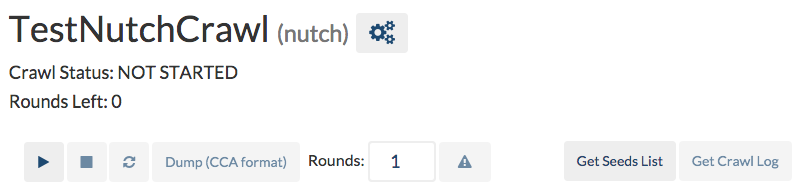
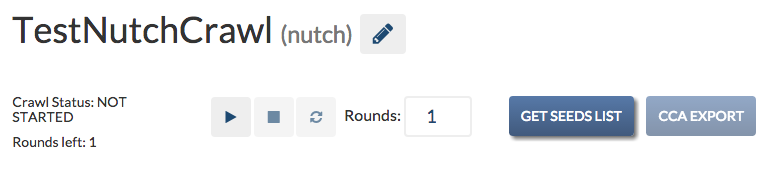
Additions to Manual Testing Guide

diff --git a/docs/source/manual_testing_guide.rst b/docs/source/manual_testing_guide.rst
@@ -13,31 +13,21 @@ Project Creation
 
     a. Click the new project button.
     b. Provide a name and a description for the project on the next page, and press submit.
-    c. Verify that you see a green banner at the top of the screen confirming that you have successfully created the project.
-
-    .. image:: _static/img/testing_guide/project_success_message.png
-
-    d. In the top right of the screen, verify that the projects dropdown is working, and that it list the name of project you just created.
-    e. On the right side of the screen, click the "list" icons to test that the dropdowns are working.
-    f. Verify that both dropdowns are empty, and that no indices or crawls have been created.
+    c. Veryify that your new project shows up on the project page list.
+    d. Click on the new project and go to the project page. Verify that there are no crawls, models, or datasets yet.
 
 Project Settings
 ================
-1. Click the "gears" icon next to the name of the project on the project overview page.
-
-    .. image:: _static/img/testing_guide/settings.png
+1. Click the "pencil" icon next to the name of the project on the project overview page.
 
     a. Supply a different name and description for the project, and hit "submit".
     b. Verify that the project was edited successfully by checking the success message at the top of the page.
 
-    .. image:: _static/img/testing_guide/project_edit_success.png
+2. Go back to the settings page.
 
-1. Go back to the settings page.
-
-    a. Click on the "trashcan" icon. Verify that there is a popup asking you whether you want to delete the project.
-    b. Click no, and verify that you get a second popup which verifies that you cancelled.
-    c. Click on the trash icon and click yes.
-    d. Verify that you are taken to the landing page, and that there are no projects listed on the landing page.
+    a. Click on the "trashcan" icon. Verify that there is a popup asking you whether you want to delete the project. 
+    b. Click on the trash icon and click yes.
+    c. Verify that you are taken to the landing page, and that there are no projects listed on the landing page. 
 
 ***************
 Testing Indices
@@ -56,11 +46,6 @@ Index Creation
 
     .. image:: _static/img/testing_guide/index_creation_success.png
 
-6. In your browser, open a new tab or window and goto http://localhost:9200/. This is the location of the elasticsearch instance.
-
-    a. Navigate to your newly created index using the following URL structure: localhost:9200/<index_name>/_search?pretty.
-    b. Verify that the newly created index reflects the number of documents in your zipfile and the content of those documents.
-
 Index Settings
 ==============
 1. Click on the link to the index on the project overview page. This will take you to the index settings page.
@@ -74,6 +59,26 @@ Index Settings
 2. Return to the index settings page and click the "trashcan" icon. As before, confirm that the cancel button works, and then delete the index. 
 
     a. Confirm that the index was deleted successfully by looking at the list of indices on the project overview page.
+
+*************
+Testing Seeds
+*************
+
+At the navbar, click on the "Seeds" tab.
+
+1. Create a Seeds List
+
+   a. Create a seeds list by providing a file.
+   b. Create another by pasting URLs into the textbox.
+   c. Paste in invalid URL into the textbox, and verify that it is highlighted red.
+
+2. Edit a seeds list
+
+   a. Click on the icon for the seeds list to access the edit seeds page.
+   b. Remove some URLs and click "Reset" to return to the original seeds list.
+   c. Make one of the URLs invalid, and press "Save"
+   d. Verify that the invalid URL is highlighted with red.
+   e. Fix or remove the URL and click "Save"
 
 **************
 Testing Crawls
@@ -90,13 +95,10 @@ Included with the repository is a test seeds file. You can use this file to test
 
     .. image:: _static/img/testing_guide/crawler_nutch.png
 
-    b. Add the seeds list from test_resources/test_crawl_data/cats.seeds , and hit "Submit"
+    b. Select one of the previously created seed lists and create the crawl.
 
-3. Verify that the crawl has been added successfully.
-
-.. image:: _static/img/testing_guide/crawl_added_success.png
-
-4. You should now be on the crawl page.
+3. Verify that the crawl has been added successfully to the crawls list table.
+4. Go to the crawl page by following the link in the crawls list table.
 
    a. Verify that the crawl status and available buttons are the same as in this image.
 
@@ -105,12 +107,8 @@ Included with the repository is a test seeds file. You can use this file to test
    b. The following buttons should be available: "Start Crawl", "Get Seeds List". All other buttons should be greyed-out.
    c. The crawl status should be set to NOT STARTED with 0 rounds left to crawl.
 
-5. Create another nutch crawl, but this time copy the contents of the cats.seeds file into the textbox. Submit the crawl.
 
-   a. On the crawl page, click the "Get Seeds List" button.
-   b. Verify that the contents of the downloaded file match the contents of cats.seeds.
-
-6. Verify that the crawl completes successfully.
+5. Start a crawl and verify that the crawl completes successfully.
 
    a. When you start the crawl, there should be two rounds left.
    b. At the end of the first round, summary statistics should list total pages crawled as between 6 and 9.
@@ -118,26 +116,6 @@ Included with the repository is a test seeds file. You can use this file to test
    d. On the start of the next round, the crawl status should change to "STARTED"
    e. At the end of the second round, the rounds left should be zero.
    f. The pages crawled should be between 300 and 400.
-   g. The crawl control dashboard should resemble this:
-
-   .. image:: _static/img/testing_guide/crawl_buttons_success.png
-
-7. Verify the crawl index
-
-   a. Refer to step 6 of :ref:`index-creation` on how to access the index from the browser.
-   b. Type in the name of the crawl index to see the crawl data. Verify that there are between 200 and 300 "hits", or documents.
-
-8. Verify that kibana is functioning.
-
-   a. Click on the Kibana tab.
-   b. Enter the following information on the "Settings" page.
-
-    .. image:: _static/img/testing_guide/add_index_kibana.png
-
-   c. Head to the "Discover" page.
-   d. Verify that you get the following output:
-
-    .. image:: _static/img/testing_guide/kibana_data.png
 
 Test Crawl Settings
 ====================
